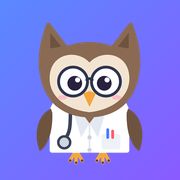
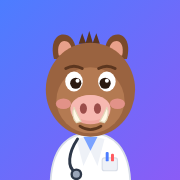
Mascot: a cute wild boar in a white coat instead of the owl
Drawn as public/boar.svg; the in-app picture and every app icon are
rendered from it.

Claude-Session: https://claude.ai/code/session_01JNprv5S6V9fWHn3tZGMZyf

diff --git a/src/components/SessionView.tsx b/src/components/SessionView.tsx
@@ -347,7 +347,7 @@ function Results({ session, summary, onDone, onRetry }: { session: Session; summ
   // passing a lecture's final test = the whole lecture is done
   const node = session.node;
   const lectureDone = !failed && test && node?.kind === 'checkpoint' && node.last ? node.unit : null;
-  const emoji = lectureDone ? <img src="/owl.png" alt="" width={72} height={96} /> : failed ? '💪' : summary.score === 1 ? '🏆' : test ? '🎓' : '🎉';
+  const emoji = lectureDone ? <img src="/boar.png" alt="" width={72} height={96} /> : failed ? '💪' : summary.score === 1 ? '🏆' : test ? '🎓' : '🎉';
   const title = lectureDone
     ? 'כל הכבוד!'
     : failed

diff --git a/src/components/FlashcardsView.tsx b/src/components/FlashcardsView.tsx
@@ -407,7 +407,7 @@ function Summary({
             animate={reduce ? { opacity: 1 } : { opacity: 1, transform: 'scale(1)' }}
             transition={reduce ? { duration: 0.2 } : { type: 'spring', duration: 0.6, bounce: 0.45 }}
           >
-            {perfect ? <img src="/owl.png" alt="" width={72} height={96} /> : '💪'}
+            {perfect ? <img src="/boar.png" alt="" width={72} height={96} /> : '💪'}
           </motion.div>
           <div className="results-title">{perfect ? (round === 1 ? 'ידעתם הכול!' : 'עכשיו ידעתם הכול!') : `ידעתם ${known} מתוך ${total}`}</div>
           <p className="results-sub">

diff --git a/src/components/ui.tsx b/src/components/ui.tsx
@@ -195,7 +195,7 @@ export function Screen({ title, subtitle, trailing, brand, children }: { title: 
       <div className="screen">
         <h1 className="large-title">
           {title}
-          {brand && <img className="brand-owl" src="/owl.png" alt="" width={33} height={44} />}
+          {brand && <img className="brand-owl" src="/boar.png" alt="" width={33} height={44} />}
         </h1>
         <div ref={sentinel} style={{ height: 1, marginTop: -1 }} />
         {subtitle && <p className="subtitle">{subtitle}</p>}

diff --git a/vite.config.ts b/vite.config.ts
@@ -7,7 +7,7 @@ export default defineConfig({
     react(),
     VitePWA({
       registerType: 'autoUpdate',
-      includeAssets: ['favicon.png', 'apple-touch-icon.png', 'owl.png'],
+      includeAssets: ['favicon.png', 'apple-touch-icon.png', 'boar.png'],
       manifest: {
         name: 'אנטומיה חיפה',
         short_name: 'אנטומיה חיפה',

diff --git a/docs/APP-MAP.md b/docs/APP-MAP.md
@@ -1,6 +1,6 @@
 # App map — how אנטומיה חיפה is built
 
-Practice app for **theoretical anatomy (אנטומיה עיונית)**, owned by Koren (`korenzc/anatomy-haifa`). Started 24.11.2026 as a copy of Ethan's לדבר רפואית (`ethankol/ledaber-refuit`) with its content, leaderboard, class chat, account backup and address move removed. Mascot: the owl in a white coat (`public/owl.png`); app icons `icon-192/512.png`, `icon-maskable-512.png`, `apple-touch-icon.png`, `favicon.png`.
+Practice app for **theoretical anatomy (אנטומיה עיונית)**, owned by Koren (`korenzc/anatomy-haifa`). Started 24.11.2026 as a copy of Ethan's לדבר רפואית (`ethankol/ledaber-refuit`) with its content, leaderboard, class chat, account backup and address move removed. Mascot: a cute wild boar in a white coat with a stethoscope (since 24.11.2026, replacing the owl): `public/boar.png` inside the app (path header, lecture done, perfect flashcard round), drawn by hand as `public/boar.svg` (edit the SVG, then re-render the PNGs); app icons `icon-192/512.png`, `icon-maskable-512.png`, `apple-touch-icon.png`, `favicon.png`.
 
 Read this first in every new chat, before opening code. **Keep it true:** any change that adds/moves/renames a file, changes how a feature works, or adds a rule → update this file in the same change.
 
